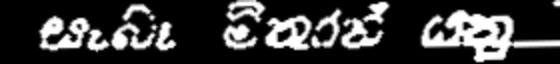
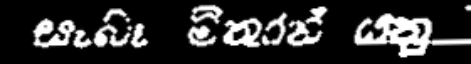
refactor: enhance line extraction and cropping logic in preprocessing

diff --git a/src/preprocessing/preprocess.py b/src/preprocessing/preprocess.py
@@ -59,33 +59,48 @@ def normalize_height(img, target_height=64):
     new_w = int(w * scale)
     return cv2.resize(img, (new_w, target_height))
 
-def extract_line_positions(binary, threshold=10):
+def extract_line_positions(binary, threshold_ratio=0.2):
     projection = horizontal_projection(binary)
 
+    max_val = np.max(projection)
+    threshold = max_val * threshold_ratio
+
     lines = []
-    start = None
+    in_line = False
+    start = 0
 
     for i, value in enumerate(projection):
 
-        if value > threshold and start is None:
+        if value > threshold and not in_line:
+            in_line = True
             start = i
 
-        elif value <= threshold and start is not None:
+        elif value <= threshold and in_line:
             end = i
-            lines.append((start, end))
-            start = None
+            if end - start > 5:  # remove noise lines
+                lines.append((start, end))
+            in_line = False
+
+    # handle last line
+    if in_line:
+        lines.append((start, len(projection)-1))
 
     return lines
-
-def crop_lines(binary, lines):
+    
+def crop_lines(binary, lines, padding_top=10, padding_bottom=10):
     line_images = []
 
+    h = binary.shape[0]
+
     for (start, end) in lines:
+
+        start = max(0, start - padding_top)
+        end = min(h, end + padding_bottom)
+
         line_img = binary[start:end, :]
         line_images.append(line_img)
 
     return line_images
-
 
 def save_lines(lines, output_folder):
     import os
